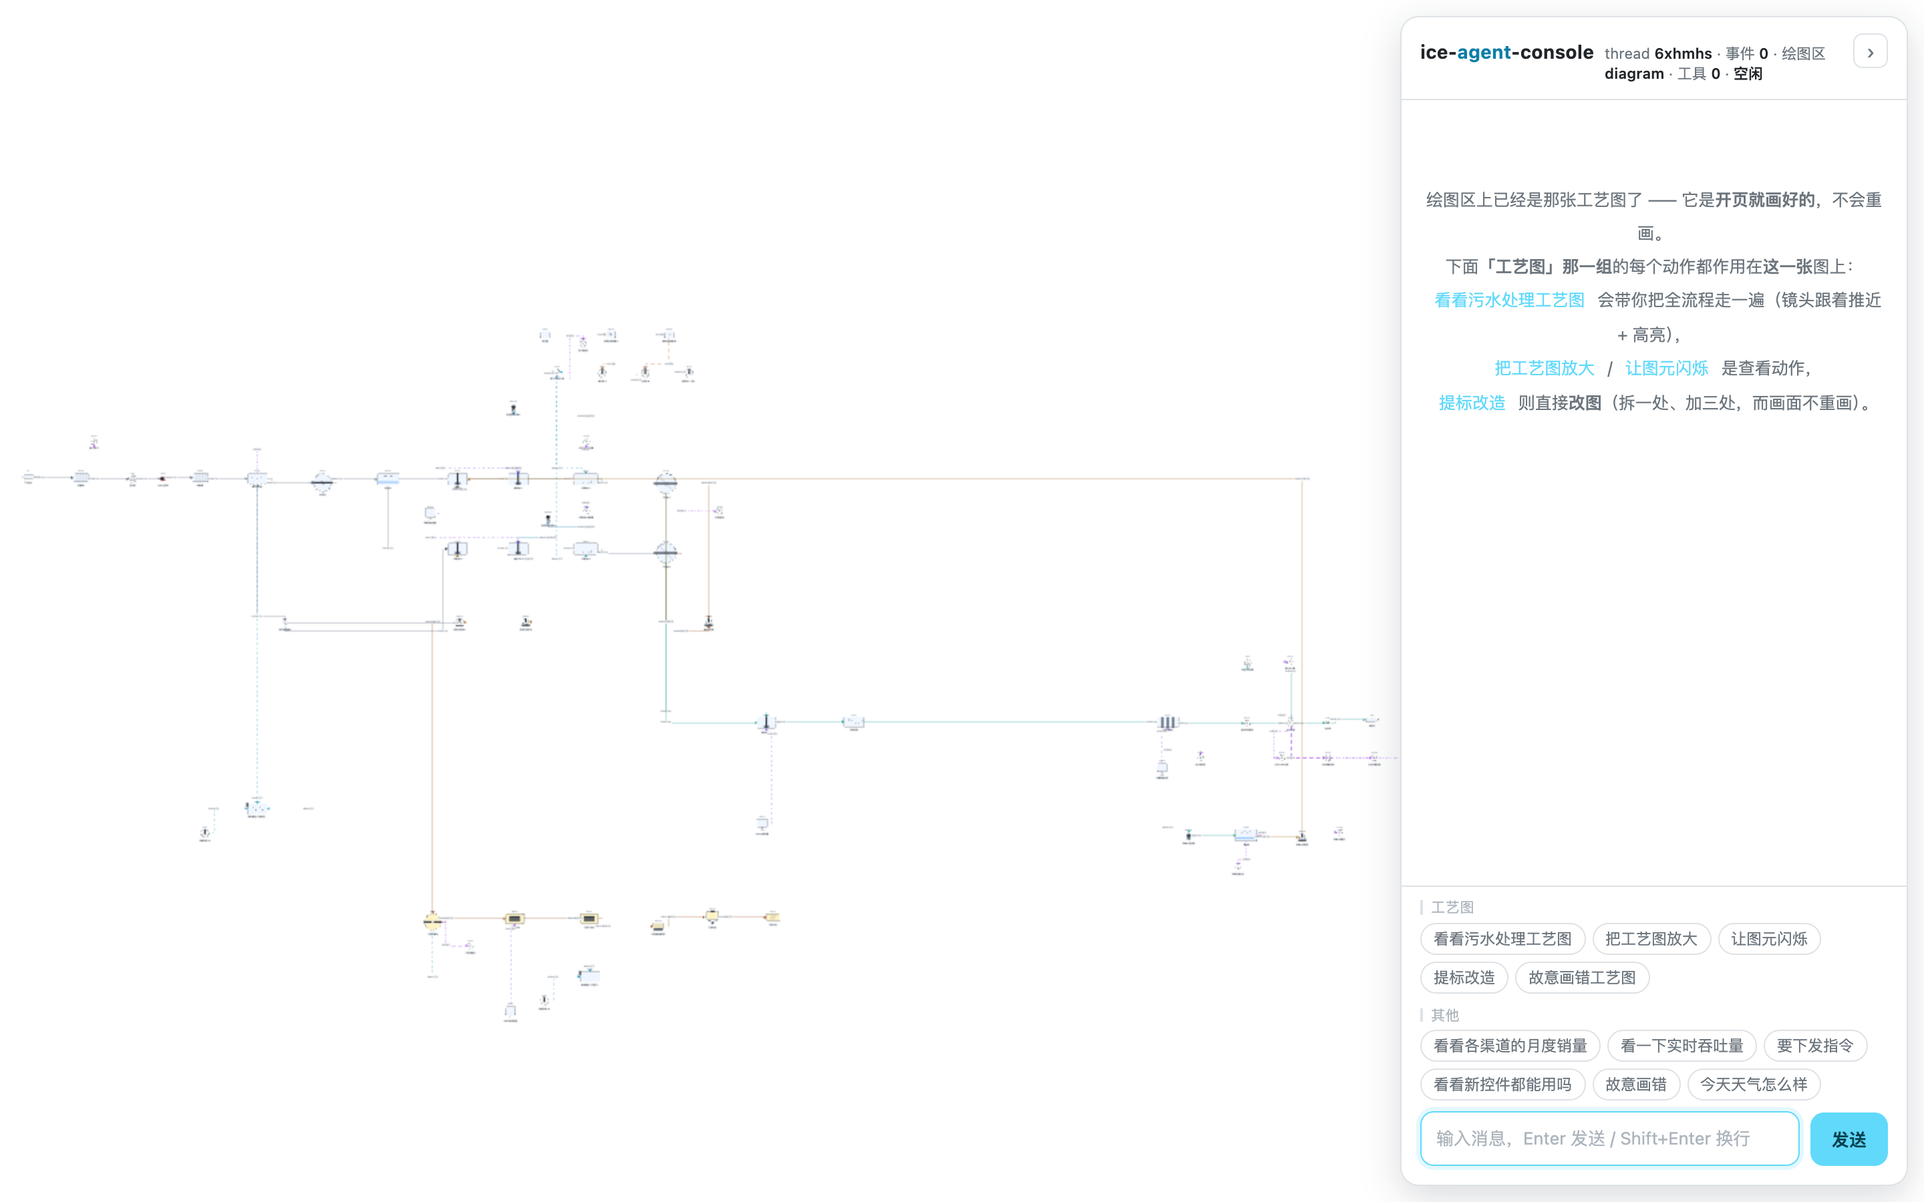
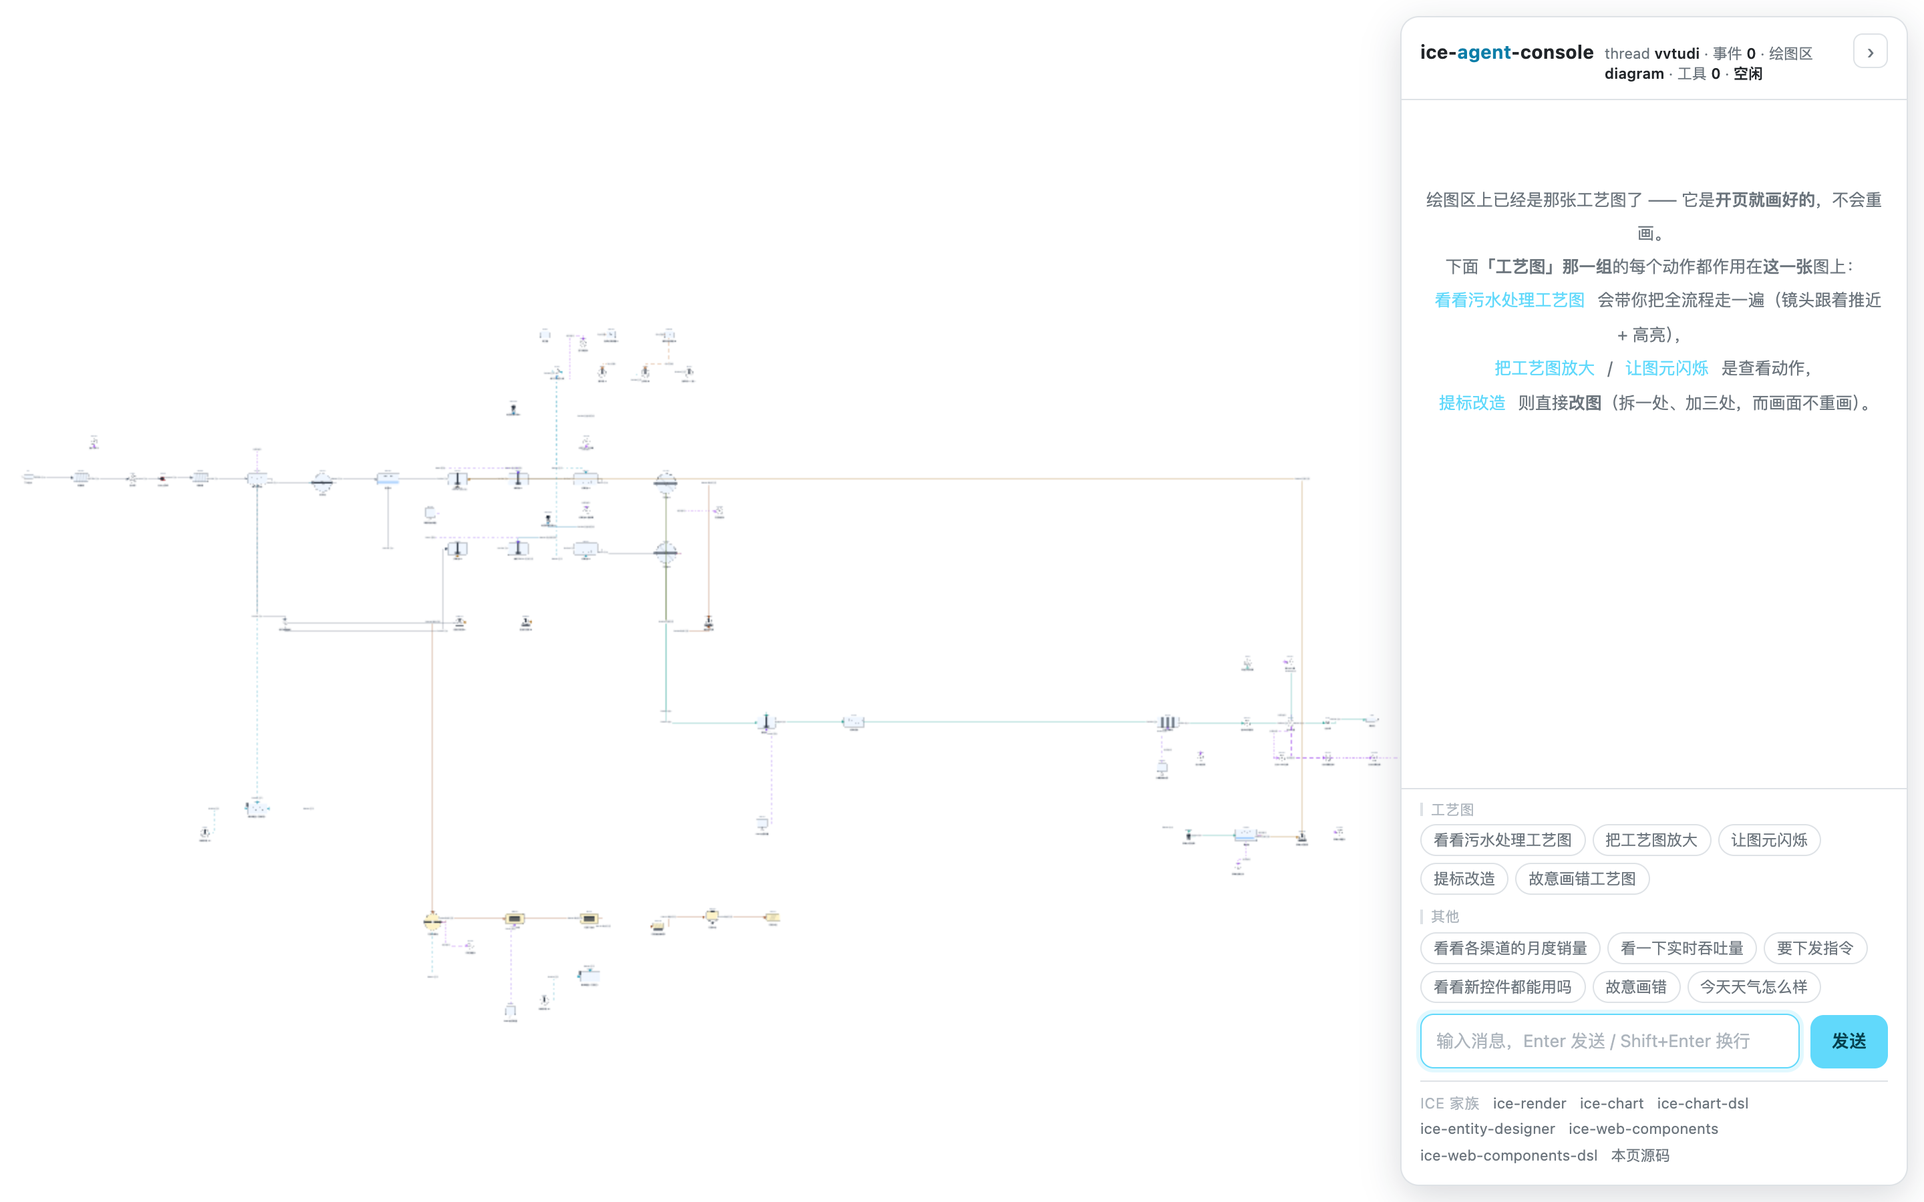
feat(panel): 面板底部加一排家族仓库链接 —— 顺带把事件屏蔽提到整个面板
需求原话："我需要在 ice-agent-console 这个案例的主页上加上顶部 Nav 和底部 footer，
在底部 footer 中增加到 ICE 家族的 github 链接"。

## 评估之后没做 Nav + footer，改成面板底部一行

Nav / footer 有两条实实在在的代价，而这一行全避开了：

1. **绘图区铺满视口是这个工程的既定设定**（README §2.0、`#stage` 是 `position:fixed;
   inset:0`）。Nav / footer 一进来画布就得缩进 —— 连带 12 张截图与几条"满版"判据
   （画布宽高 == 视口、着墨覆盖率、`--stage-usable-w` 的取景计算）都要跟着改。
2. **浮层要自己挡事件**。引擎的全局拦截器只按"目标是不是另一块 canvas"过滤，
   面板外面的浮层得单独再拦一次（见下面那条实测）。
   放在 `#chat` **里面**就自动被面板的屏蔽覆盖 —— 往面板里加东西不用回来改。

顺带它补上了上一轮 SEO 留下的缺口：改之前**可见 DOM 里一个出站链接都没有**，
整站是个单页孤岛。

## 加了什么

面板 `<footer>` 里一排链接：6 个家族仓库（ice-render / ice-chart / ice-chart-dsl /
ice-entity-designer / ice-web-components / ice-web-components-dsl）+ 本页源码。

- **全是真 `<a href>`**（爬虫只跟这个）、绝对地址、`target="_blank"` +
  `rel="noopener noreferrer"`、带中文 `title` 说明。
- **7 个仓库都实测能打开**（全 200）—— 指向 404 的链接比没有链接更糟。
- 样式只走已有 token（`--muted` / `--hint` / `--ice-ink`），11px + 自动换行，
  宁可折成三行也不横向溢出；footer 是 `flex:none`，多高就从消息区借多高，
  所以 e2e 专门钉了"输入框与发送按钮仍在面板矩形内"。

## 顺手修了一处**文档与代码不一致**

AGENTS 第 5c 条与 `chat.ts` 的文件头都写着"在**面板根**上拦一次"，
但代码实际把屏蔽装在了 `#thread`（消息区）上 —— 输入框、按钮区、顶栏都不在范围内。
现在提出成 `export function shieldFromCanvas(el)`，由 `boot.ts` 装在 `#chat` 上，
那句话才成立。

## 把这条注释里的事实**验掉了**（以前只有一句断言，没有可复现的症状）

拿图表图层做的正反两面（像素级，摘掉屏蔽 → 重建 → 再装回去 → 再验）：

| | 在**图表自己**上悬停（对照） | 在**面板**上悬停（实验） |
|---|---|---|
| 摘掉屏蔽 | 画面变（提示框 / 高亮） | **画面也变**（`ea47df79 → 78cf3055`） |
| 装上屏蔽 | 画面变 | 画面一动不动 |

⚠ 同时纠正了我自己先前的错判：**"在面板上滚一下，图没动"不能用来判断这道屏蔽有没有用**。
工艺图的滚轮缩放监听直接挂在 canvas 元素上（`diagram-layer.ts`），目标是面板的事件
[…]

Changed region(s): [[0.7188, 0.6533, 1.0, 0.9956], [0.875, 0.0311, 0.9375, 0.0622]]

diff --git a/public/index.html b/public/index.html
@@ -572,6 +572,29 @@
       }
       #send:disabled { opacity: 0.5; cursor: not-allowed; }
       .chips { display: flex; gap: 5px; flex-wrap: wrap; margin-bottom: 8px; }
+
+      /*
+       * 面板底部的家族链接（HTML 在 `<footer>` 里）。
+       *
+       * 排布上只有一条要求：**别把输入区挤走**。它在 `flex:none` 的 footer 里，
+       * 多高就从 `#thread` 借多高（那一条是 `flex:1`，自己会缩），所以这里
+       * 用小字号 + 自动换行，宁可折成两三行也不横向溢出。
+       * 颜色全走 token（`--muted` / `--hint` / `--ice-ink`），暗色主题自动跟随。
+       */
+      #chat .family {
+        display: flex;
+        flex-wrap: wrap;
+        align-items: baseline;
+        gap: 3px 10px;
+        margin-top: 9px;
+        padding-top: 8px;
+        border-top: 1px solid var(--line);
+        font-size: 11px;
+        line-height: 1.5;
+      }
+      #chat .family .family-label { color: var(--hint); letter-spacing: 0.3px; }
+      #chat .family a { color: var(--muted); text-decoration: none; }
+      #chat .family a:hover { color: var(--ice-ink); text-decoration: underline; }
       /*
        * 组名：占满一整行（`flex-basis: 100%` 配合父级的 `flex-wrap`），
        * 于是"工艺图"那一组与"其他"那一组自然分成两块，不用另起容器。
@@ -715,6 +738,76 @@
           <textarea id="input" rows="1" placeholder="输入消息，Enter 发送 / Shift+Enter 换行"></textarea>
           <button id="send" type="submit">发送</button>
         </form>
+        <!--
+          面板底部的家族链接。
+
+          **为什么是这里，而不是顶部 Nav + 底部 footer**（那版做过评估、最后没做）：
+
+          1. 这一行在 `#chat` **里面** —— 面板整体屏蔽了指针 / 滚轮 / 点击事件
+             （`src/view/chat.ts` 的 `shieldFromCanvas`），所以点它、在它上面滚，
+             都不会打到背后的画布。做成 Nav / footer 就没有这层保护，
+             得为它们单独再拦一次（引擎的拦截器只按"目标是不是另一块 canvas"过滤）。
+          2. 绘图区**铺满视口**是这个工程的既定设定（README §2.0）：Nav / footer 一进来，
+             画布就得缩进，连带 12 张截图与几条"满版"判据都要改。
+          3. 它同时补上了**爬虫的出站路径** —— 改之前可见 DOM 里一个外链都没有（README §12）。
+
+          ⚠ 全是**真 `<a href>`**、绝对地址、新窗口打开：爬虫要跟得到，
+          而且它是可见的（隐藏链接没有这个价值）。
+          ⚠ 链接指向的仓库**都验过存在**（7 个全 200），别凭印象加 —— 指向 404 的链接
+          比没有链接更糟。
+        -->
+        <nav class="family" aria-label="ICE 家族仓库">
+          <span class="family-label">ICE 家族</span>
+          <a
+            href="https://github.com/ice-render/ice-render"
+            target="_blank"
+            rel="noopener noreferrer"
+            title="ICE 渲染引擎 —— 本页绘图区的内核"
+            >ice-render</a
+          >
+          <a
+            href="https://github.com/ice-render/ice-chart"
+            target="_blank"
+            rel="noopener noreferrer"
+            title="图表库 —— 图表图层就是它画的"
+            >ice-chart</a
+          >
+          <a
+            href="https://github.com/ice-render/ice-chart-dsl"
+            target="_blank"
+            rel="noopener noreferrer"
+            title="图表的 JSON DSL：校验 → 编译 → setOption"
+            >ice-chart-dsl</a
+          >
+          <a
+            href="https://github.com/ice-render/ice-entity-designer"
+            target="_blank"
+            rel="noopener noreferrer"
+            title="实体设计器 —— 这张污水处理工艺图是它画的"
+            >ice-entity-designer</a
+          >
+          <a
+            href="https://github.com/ice-render/ice-web-components"
+            target="_blank"
+            rel="noopener noreferrer"
+            title="控件库 —— 画在画布上的按钮与表单控件"
+            >ice-web-components</a
+          >
+          <a
+            href="https://github.com/ice-render/ice-web-components-dsl"
+            target="_blank"
+            rel="noopener noreferrer"
+            title="控件的 JSON DSL —— 表单图层用它渲染"
+            >ice-web-components-dsl</a
+          >
+          <a
+            href="https://github.com/ice-render/ice-agent-console"
+            target="_blank"
+            rel="noopener noreferrer"
+            title="本页源码与架构文档（AG-UI × ICE 的接线）"
+            >本页源码</a
+          >
+        </nav>
       </footer>
     </aside>
 

diff --git a/src/view/chat.ts b/src/view/chat.ts
@@ -9,7 +9,8 @@
  * 所以分界划在这儿：**DOM 管对话，canvas 管绘图区**（见 `src/view/stage.ts`）。
  *
  * 面板是 `position: fixed` **浮在绘图区右边缘上**的。一个必须做的动作：
- * 在面板根上 `stopPropagation` 掉指针 / 滚轮 / 点击事件 —— 见 `__shieldFromCanvas`。
+ * 在面板根上 `stopPropagation` 掉指针 / 滚轮 / 点击事件 —— 见 `shieldFromCanvas`，
+ * 由 `boot.ts` 在 `#chat`（**整个面板**，不只是消息区）上装一次。
  *
  * 渲染策略是"按 id 复用元素"而不是重绘整棵树 —— 因为条目上有状态机
  * （流式 / 已渲染 / 校验不通过 / 已提交），整棵重建会把"这一条已经失败过"这类
@@ -25,9 +26,25 @@ interface TextSlot {
 
 /**
  * 引擎会**广播**这些事件给每一个 ICE 实例（`DOMEventInterceptor` 在 `window` 上
- * 挂的是冒泡阶段的监听），唯一的过滤是"事件目标是不是另一块 **canvas**"。
- * 对话面板是个 `<div>`，不在过滤范围内 —— 在面板上滚一下，画布那个实例照样会
- * 当成一次滚轮缩放。所以在面板根上把它们拦下来。
+ * 挂的是冒泡阶段的监听），过滤只认"事件目标是不是另一块 **canvas**"（见
+ * `DOMEventDispatcher.__isForeignCanvasTarget`）。对话面板是个 `<div>`，
+ * 不在过滤范围内，所以在面板根上把它们拦下来。
+ *
+ * ⚠ **"没拦住"长什么样，实测过**（2026-09-16，像素级，拿图表图层做正反两面）：
+ *
+ * | | 在图表自己上悬停（对照） | 在面板上悬停（实验） |
+ * |---|---|---|
+ * | 摘掉这道屏蔽 | 画面变（提示框 / 高亮） | **画面也变** |
+ * | 装上这道屏蔽 | 画面变 | 画面一动不动 |
+ *
+ * ⚠ **这条泄漏在工艺图上量不出来**：工艺图的滚轮缩放监听是直接挂在 canvas 元素上的
+ * （`diagram-layer.ts` 的 `canvas.addEventListener('wheel', …)`），事件目标是面板时
+ * 根本到不了它。所以"在面板上滚一下，图没动"**不能**用来判断这道屏蔽有没有用 ——
+ * 它挡的是**走引擎事件总线的那类交互（悬停 / 命中）**，而那几个图层正好压在面板下面。
+ * 别拿滚轮做判据，也别因为"实测没效果"把它删掉。
+ *
+ * 装在哪一层是有讲究的：挂在**面板根**上，往后往面板里加东西（比如底部那排
+ * 家族链接）自动被覆盖；加到面板**外面**的浮层要自己再拦一次。
  *
  * **不拦键盘**：输入框一直是这样工作的，拦了输入法就废了。
  */
@@ -44,6 +61,18 @@ const SHIELDED_EVENTS = [
   'auxclick',
   'wheel',
 ];
+
+/**
+ * 把一块浮层"对画布透明"：指针 / 滚轮 / 点击事件就地掐掉，不再冒泡到 `window`。
+ *
+ * 导出成函数而不是塞进 `ChatView` 的构造函数，是因为**要拦的是整个面板**，
+ * 而 `ChatView` 拿到的是消息区（`#thread`）—— 渲染根与"该拦多大一块"是两件事，
+ * 由 `boot.ts`（它同时看得到 `#chat` 与 `#thread`）决定。
+ */
+export function shieldFromCanvas(el: HTMLElement): void {
+  const stop = (event: Event) => event.stopPropagation();
+  for (const name of SHIELDED_EVENTS) el.addEventListener(name, stop);
+}
 
 /**
  * 距底部多少像素以内算"贴着底部"。
@@ -84,7 +113,6 @@ export class ChatView {
 
   constructor(private readonly root: HTMLElement) {
     this.emptyEl = root.querySelector('.empty');
-    this.__shieldFromCanvas();
     // `passive: true`：这个监听只读位置、不阻止滚动，声明出来能让浏览器少一次等待
     this.root.addEventListener('scroll', this.onScroll, { passive: true });
   }
@@ -222,11 +250,6 @@ export class ChatView {
     }
     entry.update(item);
     return entry.el;
-  }
-
-  private __shieldFromCanvas(): void {
-    const stop = (event: Event) => event.stopPropagation();
-    for (const name of SHIELDED_EVENTS) this.root.addEventListener(name, stop);
   }
 
   /** 距底部还有多少像素。内容比容器矮时是负数 —— 那也算"贴底"。 */

diff --git a/e2e/seo.spec.ts b/e2e/seo.spec.ts
@@ -113,3 +113,49 @@ test('键盘 Tab 到文字替身里的链接时，它是**看得见**的', async
 
   expect(errors).toEqual([]);
 });
+
+/**
+ * 面板底部那排家族链接。
+ *
+ * 它同时是**可见 UI** 与**爬虫的出站路径**，所以两边都要钉：
+ * 链接得是真 `<a href>`（爬得到）、得在面板里（点它不会打到画布）、
+ * 而且加了这一行之后**输入区不能被挤走** —— footer 是 `flex:none`，
+ * 它多高就从消息区借多高，借过头的话输入框会被推出面板。
+ */
+test('面板底部的家族链接：可爬、可点、且没有挤坏输入区', async ({ page }) => {
+  const errors = collectErrors(page);
+  await page.goto('/?autoplay=0');
+  await waitDiagramReady(page);
+
+  const links = page.locator('#chat .family a');
+  const count = await links.count();
+  expect(count, '家族链接应当有 5 个以上').toBeGreaterThanOrEqual(5);
+
+  // ---- 1. 绝对地址、指向真实存在过的仓库、没有重复 ----
+  const hrefs = await links.evaluateAll((els) => els.map((el) => (el as HTMLAnchorElement).href));
+  for (const href of hrefs) expect(href).toMatch(/^https:\/\/github\.com\/ice-render\/[\w-]+$/);
+  expect(new Set(hrefs).size).toBe(hrefs.length);
+
+  // ---- 2. 可见（不是藏在 sr-only 里的链接）----
+  await expect(links.first()).toBeVisible();
+
+  // ---- 3. 输入区与发送按钮仍然在面板矩形里 ----
+  const panel = (await page.locator('#chat').boundingBox())!;
+  const input = (await page.locator('#input').boundingBox())!;
+  const send = (await page.locator('#send').boundingBox())!;
+  expect(input.y + input.height).toBeLessThanOrEqual(panel.y + panel.height);
+  expect(send.y + send.height).toBeLessThanOrEqual(panel.y + panel.height);
+
+  // ---- 4. 在链接那一行上滚轮：背后的工艺图不能被缩放 ----
+  // （面板整体装了屏蔽，见 src/view/chat.ts 的 shieldFromCanvas。这一条是它的回归线：
+  //   哪天有人把屏蔽挪回消息区，这一行就会红。）
+  const scale = () => page.evaluate(() => (window as any).__iceAgentConsole.diagramViewport().scale);
+  const before = await scale();
+  const linkBox = (await links.first().boundingBox())!;
+  await page.mouse.move(linkBox.x + linkBox.width / 2, linkBox.y + linkBox.height / 2);
+  await page.mouse.wheel(0, -800);
+  await page.waitForTimeout(250);
+  expect(await scale(), '在链接行上滚轮不该缩放工艺图').toBe(before);
+
+  expect(errors).toEqual([]);
+});

diff --git a/tests/seo.test.ts b/tests/seo.test.ts
@@ -203,6 +203,41 @@ describe('canvas 的文字替身（爬虫能读到的正文）', () => {
   });
 });
 
+describe('出站链接：别让整站变成孤岛', () => {
+  /**
+   * 整站只有一个 URL、没有任何子页面，改之前**可见 DOM 里一个外链都没有** ——
+   * 爬虫没有出路，人也没法从演示走到家族仓库。所以面板底部刻意加了那排链接
+   * （位置与理由见 README §12、public/index.html 里的注释）。
+   */
+  // 先把**注释剥掉**再扫：上面那段说明里就写着"真 `<a href>`"这样的字样，
+  // 不剥的话正则会把散文当成标签数进去（第一版就是这么红的）。
+  const footer = ((html.match(/<footer>[\s\S]*?<\/footer>/) || [])[0] || '').replace(
+    /<!--[\s\S]*?-->/g,
+    ''
+  );
+  const links = [...footer.matchAll(/href="(https:\/\/github\.com\/[^"]+)"/g)].map((m) => m[1]);
+
+  it('面板底部有 5 个以上指向 ICE 家族仓库的绝对链接', () => {
+    expect(links.length).toBeGreaterThanOrEqual(5);
+    expect(links.every((h) => h.startsWith('https://github.com/ice-render/'))).toBe(true);
+    // 同一个仓库挂两遍是"凑数"，不是内容
+    expect(new Set(links).size).toBe(links.length);
+  });
+
+  it('必须是真 `<a href>`，不是 JS 点击', () => {
+    // 爬虫只跟 `<a href>`。写成 `onclick=window.open(...)` 对它们等于没有，
+    // 而这一类"看着有链接其实爬不到"的写法在单页应用里很常见。
+    const anchors = [...footer.matchAll(/<a\b[^>]*>/g)].map((m) => m[0]);
+    expect(anchors.length).toBeGreaterThanOrEqual(5);
+    for (const tag of anchors) {
+      expect(tag).toMatch(/href="https:\/\//);
+      // 新窗口打开是给**人**的（别把演示页挤掉），noopener 是安全的标配
+      expect(tag).toContain('target="_blank"');
+      expect(tag).toContain('rel="noopener noreferrer"');
+    }
+  });
+});
+
 describe('标题是这一页的身份，不许随画面漂', () => {
   it('运行期没有任何地方改 document.title', () => {
     /**

diff --git a/src/entries/boot.ts b/src/entries/boot.ts
@@ -29,7 +29,7 @@ import {
   type Effect,
   type TextItem,
 } from '../domain/agui/reducer';
-import { ChatView } from '../view/chat';
+import { ChatView, shieldFromCanvas } from '../view/chat';
 import { StageView, type StageMountResult } from '../view/stage';
 import type { WidgetAction } from '../view/widget-layer';
 
@@ -202,6 +202,15 @@ const stage = new StageView(stageEl, {
 });
 
 const view = new ChatView(threadEl);
+
+/**
+ * 面板对画布"透明化"：拦在我们**整个面板**（`#chat`）上，而不是消息区。
+ *
+ * 面板里现在有四块 DOM：顶栏、消息区、快捷按钮 + 输入框、底部那排家族链接。
+ * 拦在面板根上，这四块一次覆盖 —— 往面板里再加东西也不用回来改。
+ * 为什么这件事必须做、以及"为什么它今天看不出效果"（实测），见 `chat.ts` 顶部的注释。
+ */
+shieldFromCanvas(chatEl);
 
 /**
  * 先让绘图区知道面板占了右边多少，**再**画图。

diff --git a/AGENTS.md b/AGENTS.md
@@ -65,8 +65,15 @@
    唯一的过滤是"事件目标是不是另一块 **canvas**"。对话面板是个 `<div>`，不在过滤范围内 ——
    不额外拦一道的话，在面板上滚一下，画布那个实例照样当成一次滚轮缩放。
    好在拦截器挂的是**冒泡阶段**，所以在面板根上拦一次就行（见 `src/view/chat.ts` 的
-   `SHIELDED_EVENTS`）。**别拦键盘** —— 输入框一直是这样工作的。
+   `shieldFromCanvas`，由 `boot.ts` 装在 `#chat` 上 —— **整个面板**，不只是消息区；
+   面板底那排家族链接因此在覆盖范围内）。**别拦键盘** —— 输入框一直是这样工作的。
    e2e 有一条正反两面的断言（面板上滚无效 / 画布上滚有效）。
+   ⚠ **别拿滚轮判断这道屏蔽有没有用**：工艺图的滚轮缩放是直接挂在 canvas 元素上的
+   （`diagram-layer.ts`），目标是面板时根本到不了它 —— 实测"在面板上滚，图纹丝不动"
+   在**摘掉屏蔽**时同样成立。它真正挡的是**走引擎事件总线的悬停 / 命中**：
+   2026-09-16 拿图表图层验过正反两面 —— 摘掉屏蔽后，鼠标在面板上划过（面板压在图表画布上），
+   图表的提示框会跟着变；装回去就一动不动。**面板里加东西自动被覆盖，
+   加到面板外面的浮层要自己再拦一次。**
 5d. **改图走 `STATE_DELTA` + JSON Patch，不要自造"图元增删事件"。**
    "state 变了"协议里已经有词（`STATE_DELTA` + RFC 6902）。补丁按**形状**分流
    （`src/domain/agui/state-patch.ts` 的两个纯函数）：只往 rows 追加 → `appendData`；
